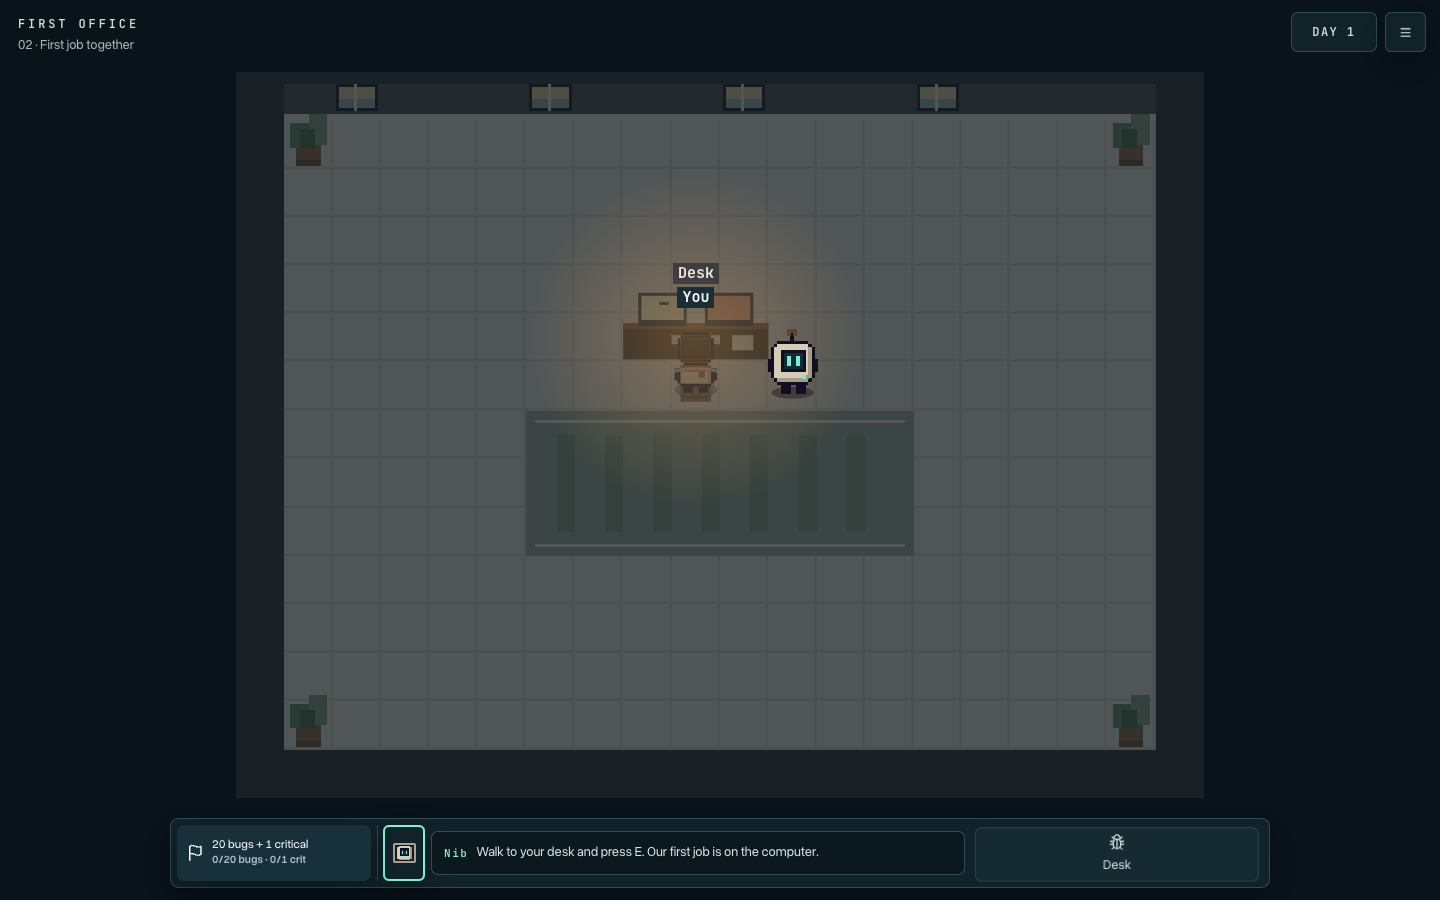
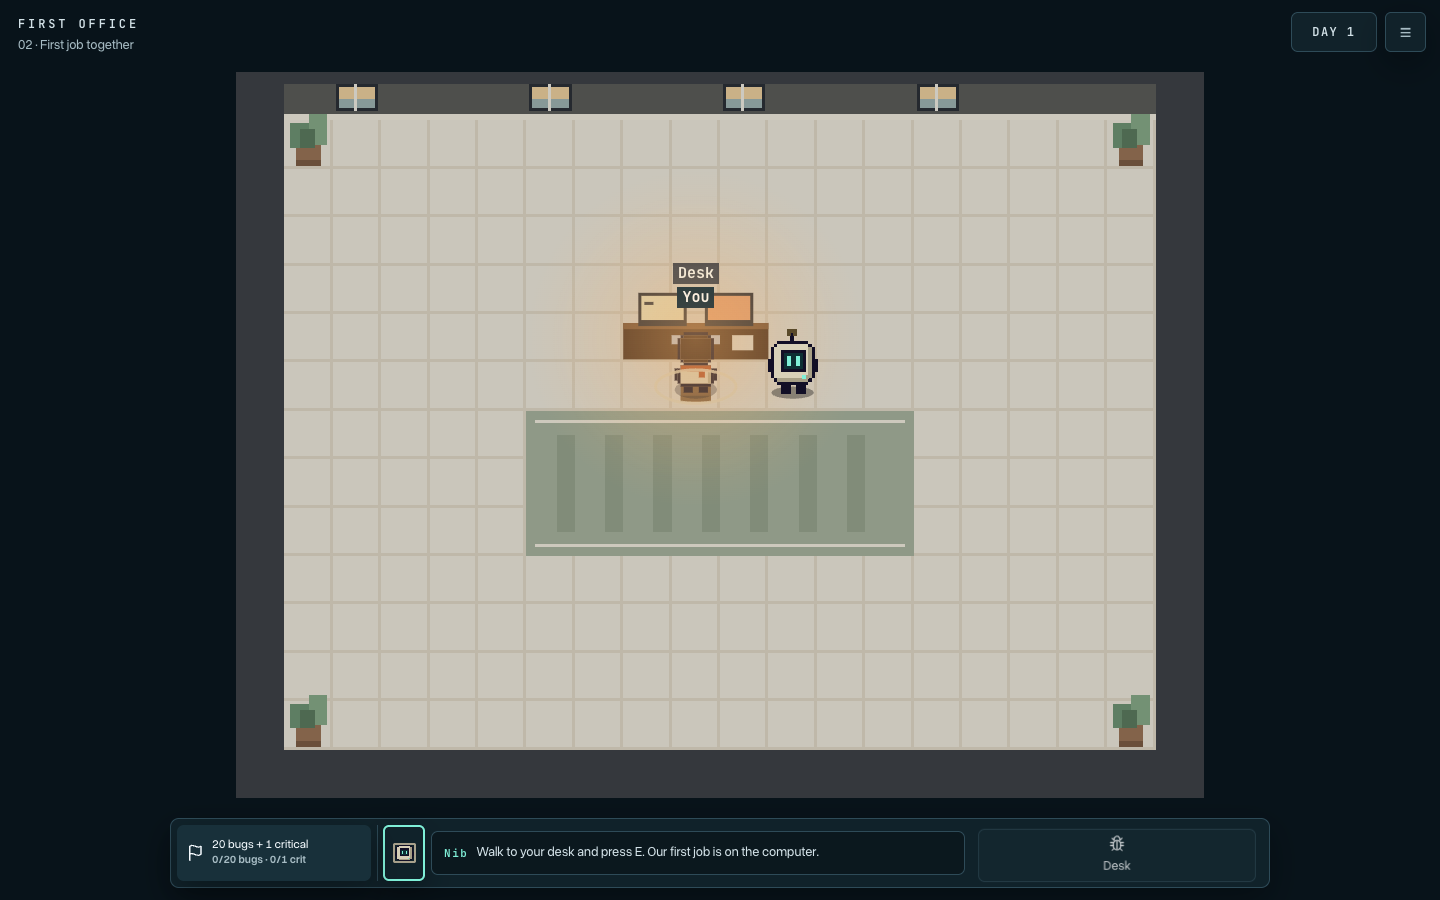
- original/world.js: daytime room wash lowered from 68% to 16% so the office reads lit; night keeps its own overlay - engine.js: sleep() saves end-of-day totals (bugs, crits, cash, rep, earned) to s.days, last 60 days - game.js: vitals box (top left, V): bugs today, crits, cash, focus; expands to to

diff --git a/game.js b/game.js
@@ -184,6 +184,7 @@
     if (stage3() && !s.won3 && s.rep >= 60 && teamBugs >= TEAM_GOAL) { s.won3 = true; const p = lastPay && performance.now() - lastPay.t < 1500 ? lastPay : { station: 'founder' }; setTimeout(() => goal(ending3, p.station, p.who), 1200); } // the pay that reached Elite
     window.Talk.set($('objective'), flash && Date.now() < flash.until ? flash.text : objective()); // #11: new wording types out, new numbers don't
     $('stats-open').hidden = !s.seen.stats;
+    vitals();
     wallet();
     placeLamps(); // #12: lamp pools follow the stations you've unlocked
     const known = (dockSeen = dockSeen || new Set(ORDER.filter(shown))), now = document.timeline.currentTime || 0;
@@ -737,6 +738,49 @@
       ${!known.length ? '<p class="hint-line">Teach Nib first: tries are wasted until then.</p>' : avg < 0.5 ? '<p class="hint-line">Weak patterns: more tries, more false alarms.</p>' : ''}
       <ul class="shoplist">${tiers}</ul>`;
   }
+  // ---------- vitals box ----------
+  // A small box under the chapter title: today's numbers, cash and focus. A click opens lifetime totals and charts.
+  // "Today" is the current game day, measured against the snapshot engine.sleep() saves at the end of each day.
+  function dayRows() {
+    const rows = (s.days || []).slice(), now = { day: s.day, bugs: s.bugs, crits: s.crits, cash: s.cash, rep: s.rep, earned: s.stats.earned };
+    rows.push(now);
+    // A save from before snapshots existed has no baseline for its early days; start the charts where the data starts.
+    return rows.map((r, i) => { const p = i ? rows[i - 1] : r.day === 1 ? { bugs: 0, crits: 0, earned: 0 } : null; return { ...r, newBugs: p ? r.bugs - p.bugs : null, newCrits: p ? r.crits - p.crits : null, made: p ? r.earned - p.earned : null }; });
+  }
+  function bars(rows, key, label) {
+    const pts = rows.filter(r => r[key] != null).slice(-14), max = Math.max(1, ...pts.map(r => r[key])), W = 280, H = 70, bw = W / Math.max(pts.length, 7);
+    const b = pts.map((r, i) => { const h = Math.max(r[key] ? 3 : 1, r[key] / max * (H - 16)); return `<rect x="${i * bw + 2}" y="${H - 12 - h}" width="${bw - 4}" height="${h}" rx="1.5" class="${r.day === s.day ? 'now' : ''}"><title>Day ${r.day}: ${r[key]}</title></rect><text x="${i * bw + bw / 2}" y="${H - 1}">${r.day}</text>`; }).join('');
+    return `<figure class="vchart"><figcaption>${label} <span>max ${max}</span></figcaption><svg viewBox="0 0 ${W} ${H}" role="img" aria-label="${label}">${b}</svg></figure>`;
+  }
+  function line(rows, key, label, fmt) {
+    const pts = rows.slice(-14), vals = pts.map(r => r[key]), max = Math.max(1, ...vals), W = 280, H = 70, x = i => pts.length > 1 ? 4 + i * (W - 8) / (pts.length - 1) : W / 2, y = v => H - 14 - v / max * (H - 22);
+    const d = pts.map((r, i) => (i ? 'L' : 'M') + x(i).toFixed(1) + ' ' + y(r[key]).toFixed(1)).join(' ');
+    const dots = pts.map((r, i) => `<circle cx="${x(i)}" cy="${y(r[key])}" r="${r.day === s.day ? 3 : 2}" class="${r.day === s.day ? 'now' : ''}"><title>Day ${r.day}: ${fmt(r[key])}</title></circle><text x="${x(i)}" y="${H - 1}">${r.day}</text>`).join('');
+    return `<figure class="vchart"><figcaption>${label} <span>${fmt(vals[vals.length - 1])}</span></figcaption><svg viewBox="0 0 ${W} ${H}" role="img" aria-label="${label}"><path d="${d}"/>${dots}</svg></figure>`;
+  }
+  function vitals() {
+    const el = $('vitals'); el.hidden = !s.seen.job; if (el.hidden) return;
+    const rows = dayRows(), t = rows[rows.length - 1], open = el.classList.contains('open'), mf = E.maxFocus(s);
+    const cell = (k, v, cls) => `<div class="v ${cls || ''}"><span>${k}</span><b>${v}</b></div>`;
+    const today = `<div class="vgrid">${cell('Bugs today', t.newBugs ?? '—')}${cell('Crits', s.crits, s.crits ? 'crit' : '')}${cell('Cash', money(s.cash), 'cash')}${cell('Focus', s.focus + '/' + mf, s.focus < mf * 0.25 ? 'low' : '')}</div>`;
+    el.setAttribute('aria-expanded', open);
+    if (!open) { el.innerHTML = `<header>Vitals · Day ${s.day}<i>▾</i></header>${today}`; return; }
+    const st = s.stats, tier = E.tier(s), sent = st.proven + st.raw;
+    el.innerHTML = `<header>Vitals · Day ${s.day}<i>▴</i></header>${today}
+      <h4>Today</h4><div class="vgrid">${cell('Earned', t.made == null ? '—' : money(t.made))}${cell('Crits today', t.newCrits ?? '—')}${cell('Coffee left', s.cups)}${cell('Rep · ' + tier.name, s.rep)}</div>
+      <h4>Lifetime</h4><div class="vgrid">${cell('Bugs', s.bugs)}${cell('Crits', s.crits, s.crits ? 'crit' : '')}${cell('Earned', money(st.earned), 'cash')}${cell('Days', s.day)}
+        ${cell('By you', st.manual)}${cell('By ' + esc(s.nib), st.nib)}${cell('By team', st.agent || 0)}${cell('False alarms', st.falseSubmits, st.falseSubmits ? 'low' : '')}</div>
+      ${sent ? `<p class="vnote">${st.proven} proven before sending, ${st.raw} sent raw.</p>` : ''}
+      ${bars(rows, 'newBugs', 'Bugs per day')}${line(rows, 'cash', 'Cash at end of day', money)}${line(rows, 'rep', 'Reputation', String)}`;
+  }
+  function toggleVitals(force) {
+    const el = $('vitals'); if (el.hidden) return;
+    el.classList.toggle('open', force ?? !el.classList.contains('open')); vitals();
+  }
+  $('vitals').addEventListener('click', () => toggleVitals());
+  $('vitals').addEventListener('keydown', e => { if (e.key === 'Enter' || e.key === ' ') { e.preventDefault(); toggleVitals(); } else if (e.key === 'Escape') { toggleVitals(false); $('world').focus({ preventScroll: true }); } });
+  document.addEventListener('pointerdown', e => { if (!e.target.closest('#vitals')) $('vitals').classList.contains('open') && toggleVitals(false); });
+
   function ledgerView() {
     const tier = E.tier(s), next = E.nextTier(s);
     const ladder = D.REP_TIERS.map(t => `<li class="${t === tier ? 'on' : s.rep >= t.min ? 'past' : ''}"><b>${t.name}</b><span>${t.min}+</span><small>${esc(t.perk)}</small></li>`).join('');
@@ -801,13 +845,14 @@
     if (r.mastered) { nibSay('I know this one cold. Filed it.', { mood: 'happy', ms: 2600 }); paid(r.paid, 'hunt', ui.fid); await wait(900); ui.view = 'map'; ui.hit = null; ui.fid = null; drawWindow(true); return; }
     await teachMoment(ui.fid, r.first);
   }
-  async function teachMoment(fid, first) {
+  async function teachMoment(fid, first, resumed) { // resumed: the found line's index, when picking up after a reload
     ui.busy = true;
     if (first) { save(); render(); }
     await Promise.race([nibToPlayer(), wait(2500)]);
     const cls = C[F[fid].cls], f = F[fid];
     const choices = shuffledOptions(fid, 'teach').map(i => ['sharp', 'shallow', 'wrong'][i]).map(v => ({ value: v, label: D.fill(cls.teach[v], f.nouns) }));
-    let ask = first ? 'You saw that. I didn\'t. Why is it a bug? Teach me and I\'ll look for it myself.' : 'Why is that one a bug?';
+    let ask = resumed != null ? 'Before the break you found this one: line ' + (resumed + 1) + ' in ' + T[f.target].rooms.find(r => r[0] === f.room)[1] + '. Why is it a bug?'
+      : first ? 'You saw that. I didn\'t. Why is it a bug? Teach me and I\'ll look for it myself.' : 'Why is that one a bug?';
     for (;;) {
       const v = await nibSay(ask, { choices, mood: 'talk' });
       const r = E.teach(s, v);
@@ -1052,6 +1097,7 @@
     const id = ORDER.find(k => ST[k].key === e.key.toLowerCase());
     if (id && shown(id) && !(ui.win && e.target.closest('#panel-dialog') && /^[a-z]$/.test(e.key) && false)) { e.preventDefault(); ui.win === id ? closeWindow() : openStation(id); }
     else if (e.key.toLowerCase() === 'g') $('goal-open').click();
+    else if (e.key.toLowerCase() === 'v') toggleVitals();
   });
   window.addEventListener('resize', layout);
   const ro = new ResizeObserver(layout); ro.observe(document.querySelector('.dock-shell')); ro.observe($('world')); // the canvas: after world.js's own observer has resized it
@@ -1085,10 +1131,10 @@
       s.seen.intro = true; render();
     })();
   } else if (s.pendingTeach) {
-    // Reloaded mid-lesson: pick the question back up at the desk.
-    const fid = s.pendingTeach;
-    ui.fid = fid; ui.view = 'map';
-    setTimeout(() => teachMoment(fid, false), 600);
+    // Reloaded mid-lesson: reopen the code with the found line marked, so the question has its context.
+    const fid = s.pendingTeach, f = F[fid];
+    ui.fid = fid; ui.view = 'hunt'; ui.miss = null; ui.hit = C[f.cls].variants[f.variant].findIndex(l => l.bad);
+    setTimeout(() => { openStation('hunt'); teachMoment(fid, false, ui.hit); }, 600);
   } else if (stage3() && !s.seen.team) {
     (async () => {
       await wait(700);

diff --git a/style.css b/style.css
@@ -404,3 +404,27 @@ body:has(#panel-dialog[open]) .playfield::after{content:"";position:absolute;ins
 #panel-dialog .triage{font-size:12px;margin:4px 0 0}
 #panel-dialog .hq .opts,#panel-dialog .chain .opts{grid-template-columns:1fr}
 @media (max-width:600px){#panel-dialog .sec .opts{grid-template-columns:1fr}}
+
+/* Vitals box: top left under the chapter title. Compact by default; a click opens lifetime totals and charts (game.js vitals). */
+.vitals{position:absolute;left:18px;top:62px;z-index:6;width:236px;padding:9px 11px 10px;background:var(--paper);border:1px solid var(--line-2);border-radius:8px;color:var(--ink-2);font-size:12px;cursor:pointer;box-shadow:0 6px 18px rgba(0,0,0,.25);transition:width .18s ease-out,border-color .15s}
+.vitals:hover,.vitals:focus-visible{border-color:var(--nib);outline:none}
+.vitals.open{width:min(400px,calc(100vw - 36px));max-height:calc(100% - 180px);overflow:auto;cursor:default}
+.vitals header{display:flex;justify-content:space-between;margin-bottom:7px;font:600 10px var(--mono);letter-spacing:.16em;text-transform:uppercase;color:var(--muted)}
+.vitals header i{font-style:normal;color:var(--nib)}
+.vitals h4{margin:12px 0 6px;font:600 10px var(--mono);letter-spacing:.16em;text-transform:uppercase;color:var(--muted)}
+.vgrid{display:grid;grid-template-columns:1fr 1fr;gap:5px}
+.vgrid .v{display:grid;gap:1px;padding:5px 7px;background:var(--ground);border:1px solid var(--line);border-radius:5px;min-width:0}
+.vgrid .v span{font-size:10px;color:var(--muted);white-space:nowrap;overflow:hidden;text-overflow:ellipsis}
+.vgrid .v b{font:500 14px var(--mono);color:var(--ink);white-space:nowrap}
+.vgrid .v.cash b{color:var(--good)}.vgrid .v.crit b{color:var(--amber)}.vgrid .v.low b{color:var(--danger-ink)}
+.vitals.open .vgrid{grid-template-columns:repeat(4,1fr);gap:4px}.vitals.open .vgrid .v{align-content:space-between}.vitals.open .vgrid .v span{white-space:normal;line-height:1.2}.vitals.open .vgrid .v b{font-size:13px}
+.vnote{margin:6px 0 0;font-size:11px;color:var(--muted)}
+.vchart{margin:12px 0 0}
+.vchart figcaption{display:flex;justify-content:space-between;margin-bottom:4px;font-size:11px;color:var(--ink-2)}
+.vchart figcaption span{font-family:var(--mono);color:var(--muted)}
+.vchart svg{display:block;width:100%;height:auto;overflow:visible}
+.vchart rect{fill:var(--line-2)}.vchart rect.now{fill:var(--nib)}
+.vchart path{fill:none;stroke:var(--nib);stroke-width:1.5}
+.vchart circle{fill:var(--paper);stroke:var(--nib);stroke-width:1.2}.vchart circle.now{fill:var(--nib)}
+.vchart text{font:8px var(--mono);fill:var(--muted);text-anchor:middle}
+@media (max-width:700px){.vitals{top:12px;left:12px;width:200px}}

diff --git a/engine.js b/engine.js
@@ -24,7 +24,7 @@
       stage: 2, day: 1, focus: COST.focus, cups: COST.cups, cash: 0, rep: 0, bugs: 0, crits: 0,
       target: null, picked: Object.fromEntries(ALL_TARGETS.map(t => [t.id, t.picked])), lit: {},
       found: {}, misses: {}, lessons: {}, pendingTeach: null, tray: [], nextId: 1,
-      tools: ['proxy'], gpu: 0, desk: [], chains: {}, seen: {}, log: [], won: false, wonDay: 0, won3: false,
+      tools: ['proxy'], gpu: 0, desk: [], chains: {}, seen: {}, log: [], days: [], won: false, wonDay: 0, won3: false,
       stats: { manual: 0, nib: 0, agent: 0, proven: 0, raw: 0, falseSubmits: 0, earned: 0 }
     };
     Object.keys(CLASSES).forEach(k => { s.lessons[k] = { clean: 0, noisy: 0 }; });
@@ -195,6 +195,8 @@
   // Nib's night: map one room next to what's lit, then try `tries` slots it knows how to look for.
   function sleep(s) {
     const night = { day: s.day, mapped: [], tries: RIGS[s.gpu].tries, made: 0, idle: '' };
+    // End-of-day totals for the vitals box: today's numbers are the change since the last entry.
+    s.days.push({ day: s.day, bugs: s.bugs, crits: s.crits, cash: s.cash, rep: s.rep, earned: s.stats.earned }); if (s.days.length > 60) s.days.shift();
     s.day++; s.focus = maxFocus(s); s.cups = maxCups(s);
     TARGETS.forEach(t => { if (!t.private) s.picked[t.id] = Math.min(0.9, +(s.picked[t.id] + COST.crowd).toFixed(2)); });
     const tid = s.target;

diff --git a/original/world.js b/original/world.js
@@ -994,8 +994,9 @@
       if (S && live && nearId) items.forEach(function (s) { if (s.id === nearId && !s.kind) r(c, '#c4572b', s.x - 1, s.ty * T - 13, 3, 3); });
       if (Date.now() < boostUntil) r(c, '#ffb347', P.x + 7, P.y - 24 - (anim ? f % 2 : 0), 2, 2);
 
-      // Night treatment follows Claude's exported scene. Overlay artwork before screen-space labels.
-      r(c,'rgba(8,19,26,.68)',0,0,R.width,R.height);
+      // Daytime room tone: a light cool wash so the room reads lit (game.js's .night overlay does the dark).
+      // Overlay artwork before screen-space labels.
+      r(c,'rgba(8,19,26,.16)',0,0,R.width,R.height);
       if(c.createRadialGradient)items.filter(function(st){return ['hunt','forge','rig'].indexOf(st.id)>=0;}).forEach(function(st){var g=c.createRadialGradient(st.x,st.y,0,st.x,st.y,56);if(!g||!g.addColorStop)return;g.addColorStop(0,st.id==='rig'?'rgba(150,205,225,.2)':'rgba(255,184,108,.3)');g.addColorStop(1,'rgba(255,184,108,0)');c.fillStyle=g;c.fillRect(st.x-56,st.y-56,112,112);});
       if (S && V) drawFlags(c, items, V, f, anim);
       // Screen-space labels work in CSS px (labels() draws them at device scale D).

diff --git a/index.html b/index.html
@@ -10,6 +10,7 @@
  <div class="scene" id="world-wrap"><canvas id="world" width="640" height="400" tabindex="0" aria-label="Your office. Use WASD or arrow keys to walk."></canvas></div>
  <canvas id="nib-layer" aria-hidden="true"></canvas>
  <div class="chapter"><span>FIRST OFFICE</span><small id="chapter-sub">02 · First job together</small></div>
+ <section id="vitals" class="vitals" hidden role="button" tabindex="0" aria-expanded="false" aria-label="Vitals. Click for details." title="Vitals (V)"></section>
  <div class="hud" role="toolbar" aria-label="Day controls"><div class="company-status">
   <div id="focus" class="focus-meter" hidden title="Focus: hunting and proving cost focus"><span class="k">Focus</span><span class="meter"><i id="focus-fill"></i></span><strong id="focus-num">100</strong></div>
   <button id="coffee" data-icon="cup" hidden title="Coffee: more focus, a few times a day">Coffee <span id="cups">2</span></button>

diff --git a/README.md b/README.md
@@ -92,6 +92,8 @@ The founder doesn't wind up: you control it, so it reacts on the frame you press
 | `stage3/harness.js` | Agents: brief parsing, sanitize/preflight, job routines, tools, stop conditions, movement, narration |
 | `stage3/crew.js`, `stage3/crew.css` | Agent sprites, the Office/Agents switch, the Codex-style Agents view, AGENTS.md |
 
+**Vitals box** (top left, or V): bugs today, crits, cash and focus; click for today's and lifetime totals and per-day charts. "Today" is the current game day, measured against the end-of-day snapshot `engine.sleep()` adds to `s.days` (last 60 days).
+
 Saves (localStorage on this address): `first-office-nib-v1` (Stage 1 memory), `first-office-game-v1` (office), `first-office-crew-v1` (agents and rules).
 
 ## Verify
